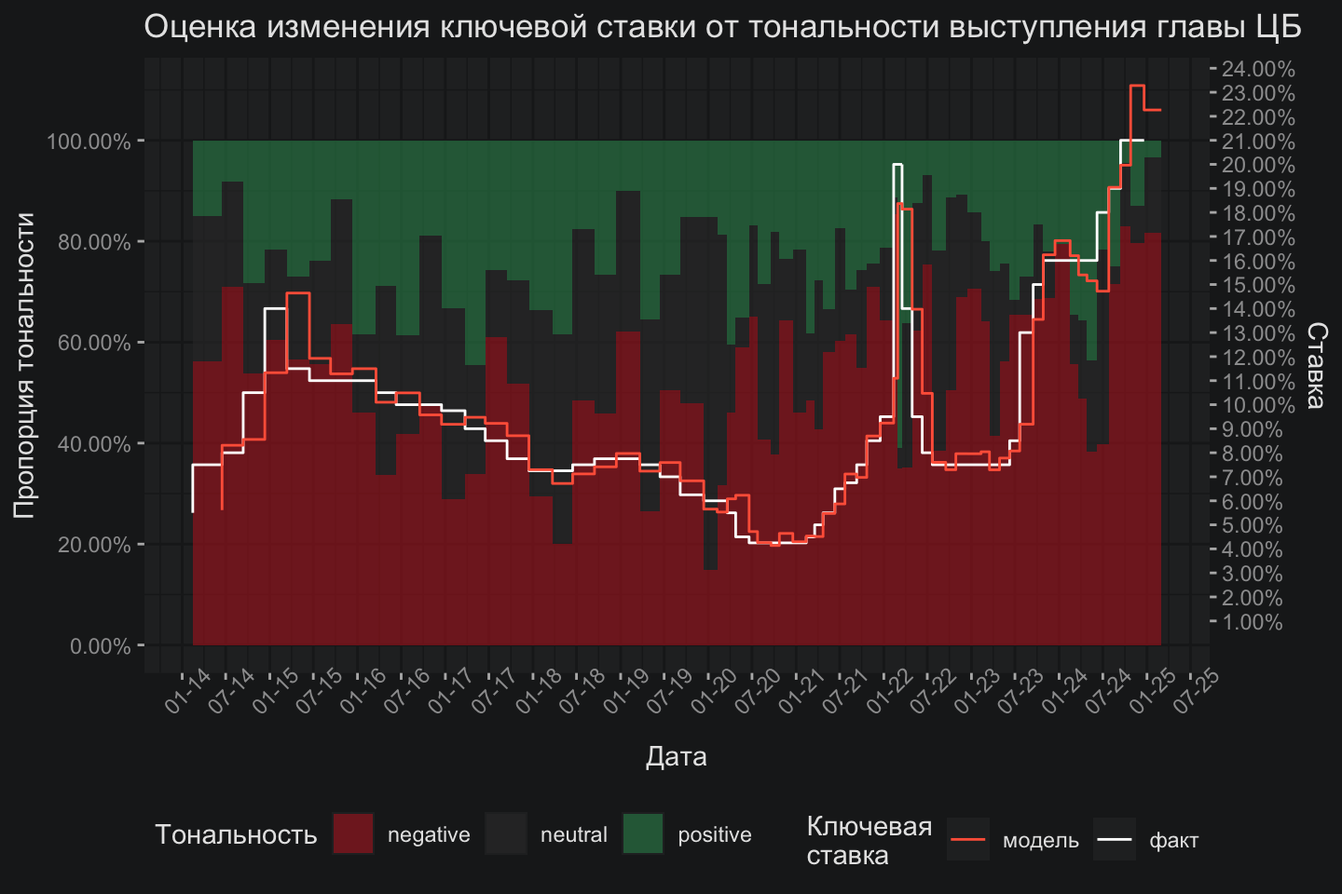
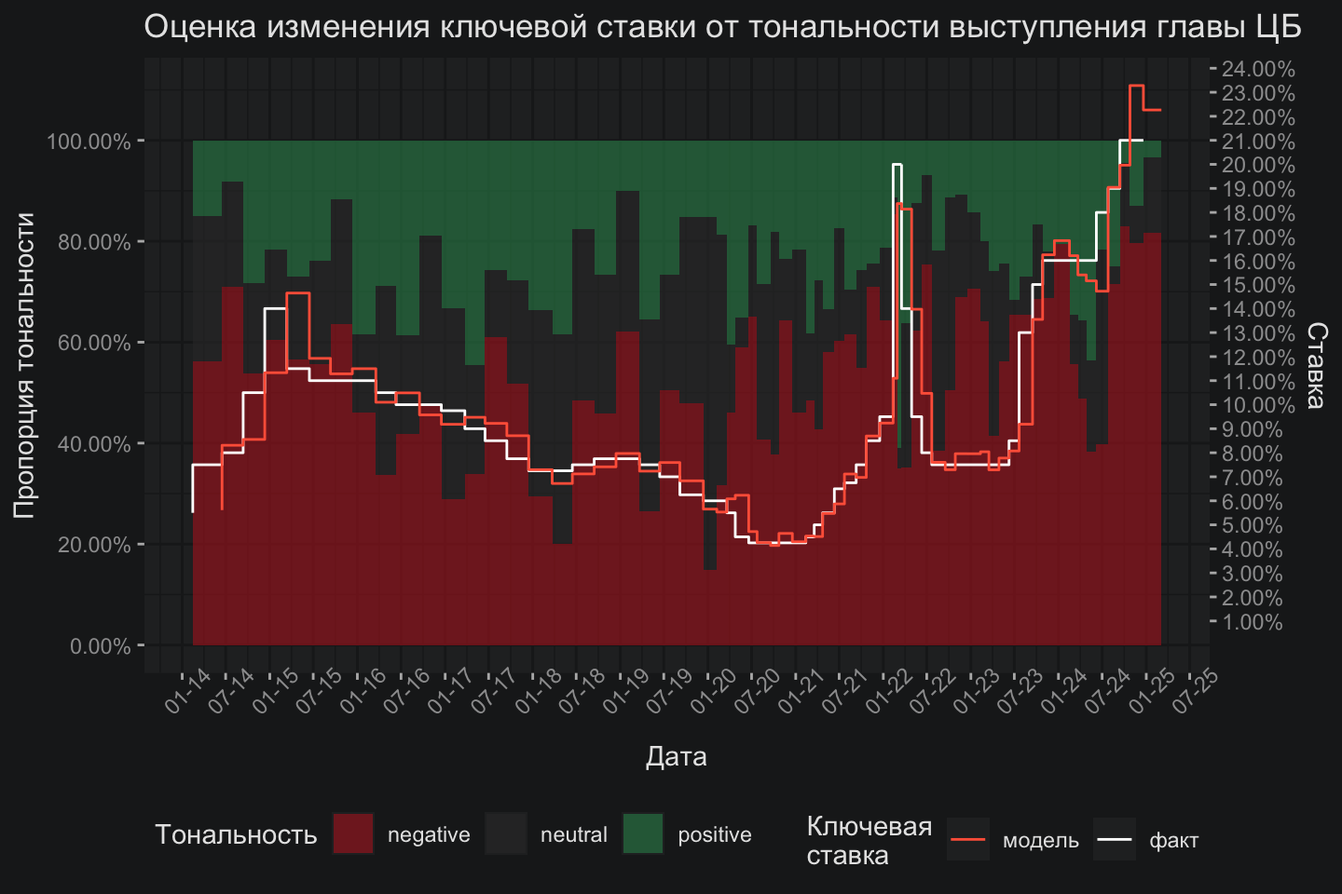
fix gramma

diff --git a/content/post/ai4analyst/index.md b/content/post/ai4analyst/index.md
@@ -18,29 +18,29 @@ cover:
 
 ### Когда бизнес приуныл
 
-Случается, что мои знакомые и друзья внезапно возбуждаются на тему ИИ и начинают тревожно звонить с вопросами: ну что там с ИИ? Уже случилась революция? Пора всех увольнять и срочно заменять чат-ботами? 
+Случается, что мои знакомые и друзья внезапно возбуждаются на тему ИИ и начинают тревожно звонить с вопросами: ну что там с ИИ? Уже случилась революция? Пора всех увольнять и срочно заменять чат-ботами?
 
-Уволить конечно можно, особенно бездельников и когда на заводах/пароходах работать некому, но касаемо реальных бизнес-кейсов с ИИ все не то чтобы прям заладилось. Бизнес конечно по-прежнему возбуждается и визионирует на конференциях, но реальные проекты пока драйвово буксуют, а ванильный AI-вайб начинает попахивать болотной тиной. 
+Уволить конечно можно, особенно бездельников и когда на заводах/пароходах работать некому, но касаемо реальных бизнес-кейсов с ИИ все не то чтобы прям заладилось. Бизнес конечно по-прежнему возбуждается и визионирует на конференциях, но реальные проекты пока драйвово буксуют, а ванильный AI-вайб начинает попахивать болотной тиной.
 
-Надо с этим что-то делать и срочно насыпать каких-нибудь корповых бизнес-кейсов и потом к этим кейсам прикрутить какую-нибудь новую ИИ-штуку чтобы вернуть радугу приунывшим единорогам. 
+Надо с этим что-то делать и срочно насыпать каких-нибудь корповых бизнес-кейсов, и потом к этим кейсам прикрутить какую-нибудь новую ИИ-штуку чтобы вернуть радугу приунывшим единорогам.
 
 Итак, 
 
-**Кейс 1** Представим себе что есть некое важное учреждение, которое разбирает в день по тысяче обращений граждан. На первоначальном сортировочном этапе было бы здорово раскидать эти обращения по профильным отделам и позже автоматически подкладывать шаблоны ответов под каждый тип вопросов. Другими словами, имеем неструктурированный текст и задачу классификации. Не то чтобы это задача не решалась без  ИИ на основе концепции "мешка со словами" (bag-of-words), но такой подход требовал дата сантиста, а самый известный дата сантист среди главного начальника  почему то стоит много денег и делает мало хороших моделей. Вот бы штатный аналитик с помощью R или Python пулял компактный скриптик и все разлеталось бы по классам без особых усилий. 
+**Кейс 1** Представим себе, что есть некое важное учреждение, которое разбирает в день по тысяче обращений граждан. На первоначальном сортировочном этапе было бы здорово раскидать эти обращения по профильным отделам и позже автоматически подкладывать шаблоны ответов под каждый тип вопросов. Другими словами, имеем неструктурированный текст и задачу классификации. Не то чтобы эта задача не решалась без ИИ на основе концепции “мешка со словами” (bag-of-words), но такой подход требовал дата сантиста, а самый известный дата сантист среди главного начальника почему-то стоит много денег и делает мало хороших моделей. Вот бы штатный аналитик с помощью R или Python пулял компактный скриптик и все разлеталось бы по классам без особых усилий.
 
-**Кейс 2** Допустим, есть профессиональная компания, которая проводить опросы по заказу государства или даже нескольких государств и не просто государств, а прям правильных таких с передовыми ценностями. Часть вопросов в опросном листе подразумевают ответ в свободной форме, который нужно нормализовать, отклассифицировать, оценить настрой (sentiment). В общем сейчас это делается руками специальных подрядчиков, а мог бы делать ИИ желательно без серверов с GPU и команды девопсов.
+**Кейс 2** Допустим, есть профессиональная компания, которая проводит опросы по заказу государства или даже нескольких государств и не просто государств, а прям правильных таких с передовыми ценностями. Часть вопросов в опросном листе подразумевают ответ в свободной форме, который нужно нормализовать, отклассифицировать, оценить настрой (sentiment). В общем сейчас это делается руками специальных подрядчиков, а мог бы делать ИИ, желательно без серверов с GPU и команды девопсов.
 
-**Кейс 3** В данном случае скорее фантазия чем реальный опыт, но почему-бы не пофантазировать. Есть замороченный на персонале гендир. Вот прям абсолютное воплощения типажа ИНТЕГРАТОРА по Адизису, который бьется за корповую культуру и ценит команду превыше всего. Есть желание у такого директора оценивать общий уровень напряженности внутри компании и путь успеха он решил проложить через анализ сообщений в корповом мессенджере. Действительно, почему бы не получать ежедневный отчет о том в каком настроении компания и на каком уровне стресс. Естественно, читать сообщения никто не будет из моральных соображений, это и не нужно, но вот сделать какой-то скоринг напряженности или тот же  (sentiment), потом агрегировать до уровня отдела и инструмент готов. Естественно, не хотелось бы городить дата-пайплайн, который бы пулял API-запросы в GPT. Во-первых это заморочено, а во-вторых не понятно как этим GPT денюжку плотить и какой черный ход использовать, потому как нормально платить напрямую банковским переводом не получится. 
+**Кейс 3** В данном случае скорее фантазия чем реальный опыт, но почему бы не пофантазировать. Есть замороченный на персонале гендир. Вот прям абсолютное воплощения типажа ИНТЕГРАТОРА по Адизису, который бьется за корповую культуру и ценит команду превыше всего. Есть желание у такого директора оценивать общий уровень напряженности внутри компании и путь успеха он решил проложить через анализ сообщений в корповом мессенджере. Действительно, почему бы не получать ежедневный отчет о том в каком настроении компания и на каком уровне стресс. Естественно, читать сообщения никто не будет из моральных соображений, это и не нужно, но вот сделать какой-то скоринг напряженности или тот же (sentiment), потом агрегировать до уровня отдела - и инструмент готов. Естественно, не хотелось бы городить дата-пайплайн, который бы пулял API-запросы в GPT. Во-первых, это заморочено, а во-вторых, непонятно как этим GPT денюжку плотить и какой черный ход использовать, потому как нормально платить напрямую банковским переводом не получится.
 
-**Кейс 4** Кейс про финансовые рынки. Все мы знаем, что глава ЦБ комментирует каждое действие и бездействие с ключевой ставкой. При этом заявление зачастую важнее самого решения поскольку таким вербальным образом ЦБ проецирует свои намерения на финансовую и банковскую системы. Другими словами, заявление ЦБ -- это тщательно подготовленный эссенция денежно-кредитной политики, адресованная профильной аудитории. Так вот эта аудитория иногда делает анализ чтобы как то систематизировать свое восприятие выступлений ЦБ: считает количество слов "инфляция", "жесткая политика" и прочее. Во общем, аналитикам хотелось бы как-то квантифицировать такие заявление и далее возможно использовать для прогнозов, но желательно без всех этих сложных Torch и Tensorflow.  
+**Кейс 4** Кейс про финансовые рынки. Все мы знаем, что глава ЦБ комментирует каждое действие и бездействие с ключевой ставкой. При этом заявление зачастую важнее самого решения, поскольку таким вербальным образом ЦБ проецирует свои намерения на финансовую и банковскую системы. Другими словами, заявление ЦБ – это тщательно подготовленный эссенция денежно-кредитной политики, адресованная профильной аудитории. Так вот, эта аудитория иногда делает анализ, чтобы как-то систематизировать свое восприятие выступлений ЦБ: считает количество слов “инфляция”, “жесткая политика” и прочее. Во общем, аналитикам хотелось бы как-то квантифицировать такие заявления и возможно далее использовать для прогнозов, но желательно без всех этих сложных Torch и Tensorflow.
 
 ### Новый инструмент анализа
 
-Признаюсь честно, эта заметка лежала у меня в черновиках 1.5 года и раньше она подразумевала более интенсивное ковыряние в архитектурах моделей с поиском приемлемого варианта и далее допиливание публичной версии заменой выходных слоев и дообучении на собственных примерах. Тогда меня остановило ощущение некого недостатка легкости и простоты в полученном техническом решении. В итоге заметка была законсервирована до появления ощутимого триггера. 
+Признаюсь честно, эта заметка лежала у меня в черновиках 1.5 года и раньше она подразумевала более интенсивное ковыряние в архитектурах моделей с поиском приемлемого варианта и далее допиливание публичной версии заменой выходных слоев и дообучением на собственных примерах. Тогда я остановился из-за ощущения недостатка легкости и простоты в полученном техническом решении. В итоге заметка была законсервирована до появления ощутимого триггера.
 
-Вот что действительно произошло в мире ИИ буквально за последний год-два -- это радикальное снижение порога входа туда. Про чат-ботов уже все знают: оно и стихи пишет и задачки решает и крестиком вышивать научит, но для анализа данных пока ничего особо не предлагали, а пацаны  ждали и дождались: наконец на улице дата аналитиков тоже праздник. Идея этого праздника очень простая - давайте возьмем денормализованную табличку из базы данных (так же известный как датафрейм) и пройдемся запросом(prompt) по колоночке чтобы на выходе получить другую колоночку как ответ (response). В общем идея простая и теперь она реализована в пакете `mall`, который доступен на R и Python. Касаемо Python пакет разработан как расширение к Polars, если кто не знает, то это что-то вроде Pandas, но написанная на Rust и руками из верного места. 
+Вот что действительно произошло в мире ИИ буквально за последний год-два – это радикальное снижение порога входа туда. Про чат-ботов уже все знают: оно и стихи пишет, и задачки решает, и крестиком вышивать научит, но для анализа данных пока ничего особо не предлагали, а пацаны ждали и дождались: наконец на улице дата аналитиков тоже праздник. Идея этого праздника очень простая - давайте возьмем денормализованную табличку из базы данных (так же известный как датафрейм) и пройдемся запросом(prompt) по колоночке чтобы на выходе получить другую колоночку как ответ (response). В общем идея простая и теперь она реализована в пакете `mall`, который доступен на R и Python. Касаемо Python, пакет разработан как расширение к Polars, если кто не знает, то это что-то вроде Pandas, но написанная на Rust и руками из верного места.
 
-Установка `mall` и понимание что к чему где-то заняло минут 20. Для описанных выше аналитических упражнений с данными потребуется готовая к работе сетка, она же -- модель. На выбор хорошего варианта ушло несколько больше времени так как требовалось: поискать какие в принципе есть варианты, скачать исходники на ноутбук, потом потестировать немного. Локальная работа модели подразумевает некое ограничение на ресурсы посему поиск производился среди облегченных моделей на базе llama.  Перебрав несколько вариантов, включая, базовую `llama 3.2`, ~~тиньковский~~ тбанский `t-lite` я остановился на `bambucha/saiga-llama3` обученная [Ильей Гусевым](https://huggingface.co/IlyaGusev/saiga_llama3_8b_gguf) поверх llama3 от компании, которую нельзя называть в РФ без сноски на то, что она экстремистская. Спасибо им за их работу. 
+Установка `mall` и понимание что к чему где-то заняло минут 20. Для описанных выше аналитических упражнений с данными потребуется готовая к работе сетка, она же модель. На выбор хорошего варианта ушло несколько больше времени так как требовалось: поискать какие в принципе есть варианты, скачать исходники на ноутбук, потом потестировать немного. Локальная работа модели подразумевает некое ограничение на ресурсы посему поиск производился среди облегченных моделей на базе llama. Перебрав несколько вариантов, включая базовую `llama 3.2`, ~~тиньковский~~ тбанский `t-lite` я остановился на `bambucha/saiga-llama3` обученная [Ильей Гусевым](https://huggingface.co/IlyaGusev/saiga_llama3_8b_gguf) поверх llama3 от компании, которую нельзя называть в РФ без сноски на то, что она экстремистская. Спасибо им за их работу. 
 
 
 <details>
@@ -77,12 +77,12 @@ cover:
 >
 > **Ответ: по три кошки у каждой.** 😊
 
-В целом терпимо для трех вариантов, хотя конечно в случае GPT чувствуется уровень: ответ краткий, точный и с учетом иронии вопроса. Впрочем, меня больше интересовала практика определение тональности для текста, в котором явно говорилось о повышении и понижении ключевой ставки. Именно тут `t-lite` поплыл, да и не только там: классификация, извлечение сущностей, кастомные запросы -- все вот это работало так себе на текстах ЦБ. Как говориться, есть потенциал для улучшений, пожелаем коллегам не унывать и не останавливаться на достигнутом уровне. 
+В целом, терпимо для трех вариантов, хотя конечно в случае GPT чувствуется уровень: ответ краткий, точный и с учетом иронии вопроса. Впрочем, меня больше интересовала практика определение тональности для текста, в котором явно говорилось о повышении и понижении ключевой ставки. Именно тут `t-lite` поплыл, да и не только там: классификация, извлечение сущностей, кастомные запросы -- все вот это работало так себе на текстах ЦБ. Как говорится, есть потенциал для улучшений, пожелаем коллегам не унывать и не останавливаться на достигнутом уровне. 
 
 </details>
 <br>
 
-Замену выходных слоев модели и дообучение на своих примерах сейчас не рассматриваем. У нас тут бизнеса нажимают за time-to-market, всякие IRR проектов считают, а еще про WACC вспомнили в контексте ключевой ставки **21%**. Естественно,  деньги стоят денег и сейчас они стоят очень очень дорого. Ну раз мы тут определили некий финансовый контекст, то предлагаю и боевой кейс взять из этой области. Пожалуй, рассмотрим публичные выступления ЦБ на тему ключевой ставки и пройдемся ка промтом по этим выступлениям. 
+Замену выходных слоев модели и дообучение на своих примерах сейчас не рассматриваем. У нас тут бизнеса нажимают за time-to-market, всякие IRR проектов считают, а еще про WACC вспомнили в контексте ключевой ставки **21%**. Естественно, деньги стоят денег и сейчас они стоят очень очень дорого. Ну раз мы тут определили некий финансовый контекст, то предлагаю и боевой кейс взять из этой области. Пожалуй, рассмотрим публичные выступления ЦБ на тему ключевой ставки и пройдемся ка промтом по этим выступлениям.
 
 ### Денежно-кредитный кейс
 
@@ -104,11 +104,11 @@ cover:
 
 > ... Это **хорошо** заметно по динамике инфляционных ожиданий...
 
-В общем важен контекст, а для контекста необходимо некое логически-завершенное содержание, которое представляет собой абзац текста. Именно поэтому было решено остановится на таком уровне гранулярности и также исключить из анализа слишком короткие фрагменты. После получения оценок тональности абзаца было бы хорошо присвоить значимость каждому абзацу. В данном случае было принято решение сделать оценку текста заявления через взвешенную на количество слов тональность. Другими словами, если много негативного текста, то негатива больше, а если абзацы с позитивом маленькие, то и позитива в итоге мало. 
+В общем, важен контекст, а для контекста необходимо некое логически-завершенное содержание, которое представляет собой абзац текста. Именно поэтому было решено остановиться на таком уровне гранулярности и также исключить из анализа слишком короткие фрагменты. После получения оценок тональности абзаца было бы хорошо присвоить значимость каждому абзацу. В данном случае было принято решение сделать оценку текста заявления через взвешенную на количество слов тональность. Другими словами, если много негативного текста, то негатива больше, а если абзацы с позитивом небольшие, то и позитива в итоге мало.
 
 Любопытно, что в начале 2010-х ЦБ смело и емко коммуницировал с аудиторией и это в дополнение к фирменным сигналам брошью. Чего только стоит брошь с мокрой тучкой, которая красуется на фото-тизере к этой заметке? Всем финансовым аналитикам сразу понятно, что выступление будет содержать негатив, потому как брошь с тучкой, а не с солнышком. К сожалению, глава ЦБ в последнее время не практикует такие невербальные формы коммуникации, а жаль.
 
-Также можно заметить любопытный период резкого скачка ставки до **20%** в начале 2022 года и скупой риторикой вокруг этого события. Действительно, всем и так было все понятно, что ничего никому не понятно. 
+Также можно заметить любопытный период резкого скачка ставки до 20% в начале 2022 года и скупой риторикой вокруг этого события. Действительно, всем и так было все понятно, что ничего никому не понятно.
 
 Наконец, недавний период как-будто бы не очень многословен, но весьма богат на негативный окрас в выступлениях ЦБ. Хорошо бы посмотреть на картинку в виде пропорций по тональности и также запилить какую-нибудь простую модельку прогноза ставки для следующего заседания:
 
@@ -187,12 +187,11 @@ $$
 </details>
 <br>
 
-Касаемо недавних событий, а именно решение о сохранении ставки на уровне **21%** нужно сказать, что модель не ожидала такого решения, а была нацелена на увеличение ставки до **23%**. Однако модель была не одинока в своем заблуждении: банки, финансовые аналитики, почти все были уверены в повышении ставки, а ее не произошло несмотря на жесткую риторику последних выступлений. В отношении будущего февральского заседания модель также настроена пессимистично, указывая на возможное повышение ставки до **22%**. Впрочем, если почитать внимательно текст, то ЦБ намерен принимать решения исходя из актуальных на тот момент данных, тщательно прокошмарив сейчас аудиторию в профилактических целях. 
+Касаемо недавних событий, а именно решение о сохранении ставки на уровне **21%** нужно сказать, что модель не ожидала такого решения, а была нацелена на увеличение ставки до 23%. Однако модель была не одинока в своем заблуждении: банки, финансовые аналитики, почти все были уверены в повышении ставки, а этого не произошло несмотря на жесткую риторику последних выступлений. В отношении будущего февральского заседания модель также настроена пессимистично, указывая на возможное повышение ставки до **22%**. Впрочем, если почитать внимательно текст, то ЦБ намерен принимать решения исходя из актуальных на тот момент данных, тщательно прокошмарив сейчас аудиторию в профилактических целях.
 
+### Выводы
 
-### Выводы 
-
-В общем ИИ -- это стильно, модно, молодежно. Для бизнеса больше новых кейсов роста и сокращения издержек, для аналитиков -- новый инструмент, который позволяет делать новые виды анализа через обогащение данных результатами работы ИИ. Для все остальных позитив в появлении новых видов анализа и, в частности, прогноза по ключевой ставке на основе тональности заявлений главы ЦБ. Кстати, ставку могут поднять до **22%+** на следующем заседании или оставить на уровне **21%**, а вообще прогнозы -- дело неблагодарное и поэтому данный текст не является инвестиционной рекомендацией.
+В общем ИИ – это стильно, модно, молодежно. Для бизнеса больше новых кейсов роста и сокращения издержек, для аналитиков – новый инструмент, который позволяет делать новые виды анализа через обогащение данных результатами работы ИИ. Для всех остальных позитив в появлении новых видов анализа и, в частности, прогноза по ключевой ставке на основе тональности заявлений главы ЦБ. Кстати, ставку могут поднять до **22%+** на следующем заседании или оставить на уровне **21%**, а вообще прогнозы – дело неблагодарное, и поэтому данный текст не является инвестиционной рекомендацией.
 
 
 ---
